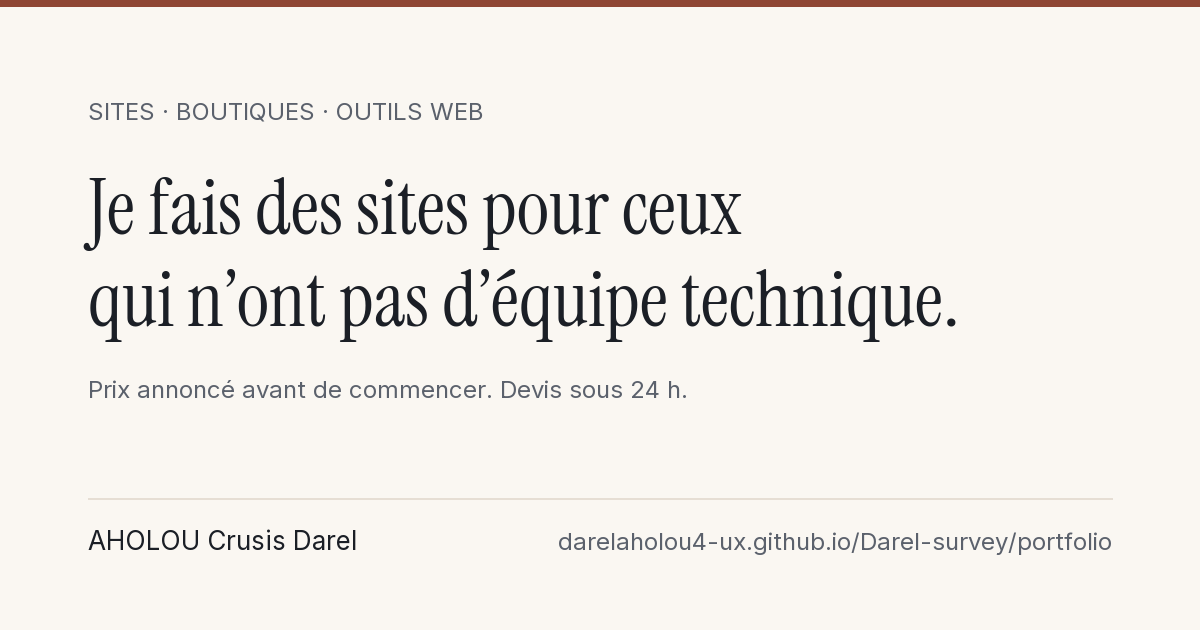
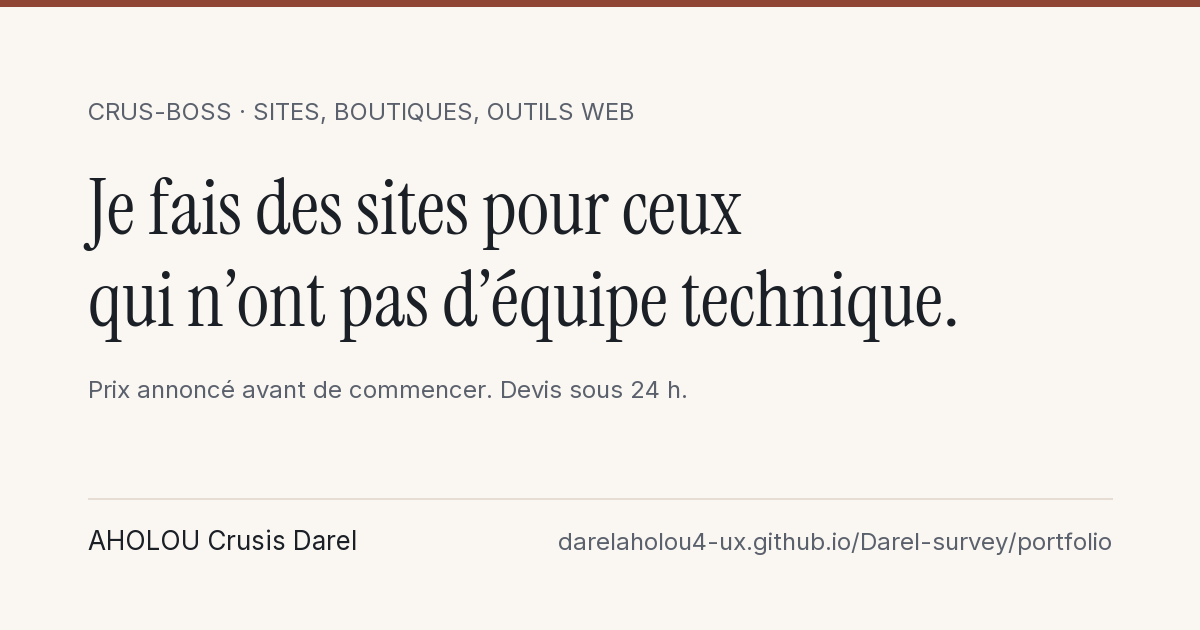
Portfolio : deux projets de plus, marque CRUS-BOSS, lien Facebook
- UAC Mini Games et Hilary ajoutés avec leur fenêtre d'aperçu (cinq projets)
- CRUS-BOSS visible : sur-titre, pied de page, JSON-LD, titre et image de partage
- Facebook ajouté au contact, à la carte de visite et au fichier contact
- compteur « 5 projets en ligne », README du portfolio mis à jour

Changed region(s): [[0.0617, 0.1508, 0.5242, 0.2111]]

diff --git a/portfolio/index.html b/portfolio/index.html
@@ -3,13 +3,13 @@
 <head>
 <meta charset="utf-8">
 <meta name="viewport" content="width=device-width, initial-scale=1">
-<title>AHOLOU Crusis Darel — sites, boutiques et outils web</title>
+<title>CRUS-BOSS — AHOLOU Crusis Darel, sites et boutiques web</title>
 <meta name="description" content="Sites vitrines, boutiques WhatsApp et outils internes, écrits à la main. Le prix est annoncé avant de commencer, le devis arrive sous 24 h. Bénin.">
 <link rel="canonical" href="https://darelaholou4-ux.github.io/Darel-survey/portfolio/">
 <meta property="og:type" content="website">
 <meta property="og:locale" content="fr_BJ">
 <meta property="og:url" content="https://darelaholou4-ux.github.io/Darel-survey/portfolio/">
-<meta property="og:title" content="AHOLOU Crusis Darel — sites, boutiques et outils web">
+<meta property="og:title" content="CRUS-BOSS — AHOLOU Crusis Darel, sites et boutiques web">
 <meta property="og:description" content="Je fais des sites pour ceux qui n’ont pas d’équipe technique. Prix annoncé avant de commencer, devis sous 24 h.">
 <meta property="og:image" content="https://darelaholou4-ux.github.io/Darel-survey/portfolio/assets/apercu-lien.png">
 <meta property="og:image:width" content="1200">
@@ -26,6 +26,8 @@
   "@context": "https://schema.org",
   "@type": "Person",
   "name": "AHOLOU Crusis Darel",
+  "alternateName": "CRUS-BOSS",
+  "brand": { "@type": "Brand", "name": "CRUS-BOSS" },
   "jobTitle": "Créateur de sites web",
   "email": "mailto:darelaholou4@gmail.com",
   "telephone": "+2290195909112",
@@ -34,7 +36,8 @@
   "knowsAbout": ["HTML", "CSS", "JavaScript", "accessibilité web"],
   "sameAs": [
     "https://github.com/darelaholou4-ux",
-    "https://www.linkedin.com/in/darel-aholou-0228253b3/"
+    "https://www.linkedin.com/in/darel-aholou-0228253b3/",
+    "https://www.facebook.com/61596179304190/"
   ]
 }
 </script>
@@ -52,6 +55,7 @@
 
   <section class="ouverture" aria-labelledby="t-titre">
     <div>
+      <p class="sur-titre">CRUS-BOSS · sites, boutiques, outils web</p>
       <h1 id="t-titre">Je fais des sites pour ceux qui n’ont pas d’équipe technique.</h1>
       <p class="chapeau">Vitrines, boutiques, outils internes. Je m’occupe des textes, des images et de la mise en ligne ; vous repartez en sachant tout modifier vous-même.</p>
       <p class="actions">
@@ -66,7 +70,7 @@
   </section>
 
   <p class="reperes">
-    <span>3 projets en ligne</span>
+    <span>5 projets en ligne</span>
     <span>réponse le jour même</span>
     <span>2 projets à la fois</span>
   </p>
@@ -148,6 +152,56 @@
         </div>
       </figure>
     </article>
+
+    <article class="projet projet--inverse">
+      <div class="projet__texte">
+        <h3>UAC Mini Games</h3>
+        <p class="etiquettes"><span class="etiquette">Jeu concours</span><span class="etiquette">Next.js, Firebase</span></p>
+        <p>Connexion, parties, classement. Les comptes et les scores sont stockés dans Firebase, l’écran est pensé pour le téléphone.</p>
+        <p class="liens">
+          <a href="https://uac-minigames.vercel.app/" class="externe">Voir le jeu</a>
+        </p>
+      </div>
+      <figure class="fenetre">
+        <div class="fenetre__barre" aria-hidden="true">
+          <span class="fenetre__points"><i></i><i></i><i></i></span>
+          <span class="fenetre__url">uac-minigames.vercel.app/</span>
+        </div>
+        <div class="fenetre__vue">
+          <div class="fenetre__repli fenetre__repli--chaud">
+            <p class="fenetre__marque">UAC Mini Games</p>
+            <p class="fenetre__note">Aperçu du site</p>
+            <a href="https://uac-minigames.vercel.app/">Ouvrir le jeu</a>
+          </div>
+          <iframe class="fenetre__cadre" src="https://uac-minigames.vercel.app/" title="Aperçu : UAC Mini Games" loading="lazy" tabindex="-1" aria-hidden="true"></iframe>
+        </div>
+      </figure>
+    </article>
+
+    <article class="projet">
+      <div class="projet__texte">
+        <h3>Hilary</h3>
+        <p class="etiquettes"><span class="etiquette">Projet personnel</span><span class="etiquette">CSS, JavaScript</span></p>
+        <p>Une page qui se parcourt comme une exploration : quatre étapes à débloquer, des cartes à retourner, des interactions au survol et au toucher. Sans bibliothèque d’animation.</p>
+        <p class="liens">
+          <a href="https://hilary-site.vercel.app/" class="externe">Voir la page</a>
+        </p>
+      </div>
+      <figure class="fenetre">
+        <div class="fenetre__barre" aria-hidden="true">
+          <span class="fenetre__points"><i></i><i></i><i></i></span>
+          <span class="fenetre__url">hilary-site.vercel.app/</span>
+        </div>
+        <div class="fenetre__vue">
+          <div class="fenetre__repli fenetre__repli--froid">
+            <p class="fenetre__marque">Hilary</p>
+            <p class="fenetre__note">Aperçu du site</p>
+            <a href="https://hilary-site.vercel.app/">Ouvrir la page</a>
+          </div>
+          <iframe class="fenetre__cadre" src="https://hilary-site.vercel.app/" title="Aperçu : Hilary" loading="lazy" tabindex="-1" aria-hidden="true"></iframe>
+        </div>
+      </figure>
+    </article>
   </section>
 
   <section class="prix" id="tarifs" aria-labelledby="t-tarifs">
@@ -208,13 +262,15 @@
       <dd><a href="https://github.com/darelaholou4-ux" class="externe">darelaholou4-ux</a></dd>
       <dt>LinkedIn</dt>
       <dd><a href="https://www.linkedin.com/in/darel-aholou-0228253b3/" class="externe">darel-aholou</a></dd>
+      <dt>Facebook</dt>
+      <dd><a href="https://www.facebook.com/61596179304190/" class="externe">Crusboss Web &amp; Design</a></dd>
     </dl>
   </section>
 
 </main>
 
 <footer class="pied">
-  <p>AHOLOU Crusis Darel · Abomey-Calavi, Bénin · 2026</p>
+  <p>CRUS-BOSS · AHOLOU Crusis Darel · Abomey-Calavi, Bénin · 2026</p>
 </footer>
 
 <a class="cta-fixe" href="https://wa.me/2290195909112?text=Bonjour%20Darel%2C%20je%20vous%20%C3%A9cris%20au%20sujet%20d%27un%20site">Écrire sur WhatsApp</a>

diff --git a/business-card.html b/business-card.html
@@ -146,6 +146,14 @@
                 >GitHub</a
               >
             </li>
+            <li>
+              <a
+                href="https://www.facebook.com/61596179304190/"
+                target="_blank"
+                rel="noopener noreferrer"
+                >Facebook</a
+              >
+            </li>
           </ul>
         </nav>
 

diff --git a/portfolio/style.css b/portfolio/style.css
@@ -160,6 +160,14 @@ a:hover { color: var(--accent); }
   padding: 4.5rem 0 2.5rem;
 }
 
+.sur-titre {
+  margin: 0 0 0.9rem;
+  font-size: 0.76rem;
+  letter-spacing: 0.09em;
+  text-transform: uppercase;
+  color: var(--accent-fonce);
+}
+
 h1 {
   margin: 0 0 1.1rem;
   font-family: var(--serif);

diff --git a/portfolio/README.md b/portfolio/README.md
@@ -1,6 +1,6 @@
 # Portfolio — AHOLOU Crusis Darel
 
-Une seule page, en français : trois projets avec leur fenêtre d'aperçu, tarifs en francs CFA, engagements et contact.
+Une seule page, en français : cinq projets avec leur fenêtre d'aperçu, tarifs en francs CFA, engagements et contact. L'atelier s'appelle CRUS-BOSS.
 
 **En ligne :** <https://darelaholou4-ux.github.io/Darel-survey/portfolio/>
 
